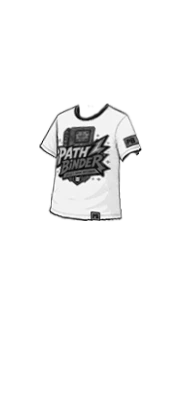
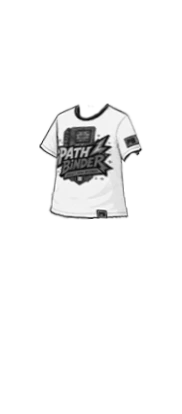
shirt

Changed region(s): [[0.2747, 0.2899, 0.7692, 0.5507], [0.4121, 0.2609, 0.467, 0.2899], [0.5495, 0.2609, 0.5769, 0.2899]]

diff --git a/index.html b/index.html
@@ -26698,6 +26698,14 @@ input::placeholder, textarea::placeholder { color: var(--muted) !important; }
         break;
       }
     }
+    // Hair styles that need EXTRA WIDE hat mask coverage — wide
+    // pigtails / buns / volume on the sides that would peek out past
+    // the hat without sideways dilation. Trade-off: a curved brim's
+    // lowest Y can propagate sideways and clip hair below the brim in
+    // side columns. These styles accept that for safer side coverage.
+    const HAIR_WIDE_HAT_MASK = new Set([3, 5, 8, 10, 11, 12, 13, 15, 17]);
+    const wideHatMask = state.hair && HAIR_WIDE_HAT_MASK.has(state.hair);
+
     if (hatLayerIdx >= 0) {
       // Hat mask construction — three combined passes:
       //   1. Mark hat opaque pixels.
@@ -26790,11 +26798,42 @@ input::placeholder, textarea::placeholder { color: var(--muted) !important; }
           }
         }
       }
+
+      // Pass 6 — (optional) sideways dilation for wide-coverage hair
+      // styles. For pigtails/buns/wide hair, the mask grows N pixels
+      // left and right at every Y where the mask exists.
+      if (wideHatMask) {
+        const SIDE_DILATE_PX = 12;
+        for (let iter = 0; iter < SIDE_DILATE_PX; iter++) {
+          tmp.set(hatBottomCol);
+          for (let y = 0; y < H; y++) {
+            for (let x = 0; x < W; x++) {
+              const i = y * W + x;
+              if (hatBottomCol[i]) continue;
+              if (!exterior[i]) continue;     // never grow into interior holes
+              if ((x > 0     && hatBottomCol[i - 1]) ||
+                  (x < W - 1 && hatBottomCol[i + 1])) {
+                tmp[i] = 1;
+              }
+            }
+          }
+          hatBottomCol.set(tmp);
+        }
+      }
+
+      // Pass 7 — explicitly unmask interior hole pixels. Any
+      // transparent pixel that's NOT exterior (not reachable from
+      // canvas edges) is an interior hole in the hat (e.g. hat 2's
+      // cutout). Force those pixels off-mask so hair shows through.
+      for (let i = 0; i < N; i++) {
+        if (!exterior[i] && hd[i * 4 + 3] <= HAT_ALPHA_MIN) {
+          hatBottomCol[i] = 0;
+        }
+      }
     }
 
     // Hair styles that should NOT get clipped by the hat mask — long
-    // or flowy hair that intentionally extends past where the hat
-    // sits and should remain visible alongside it.
+    // or flowy hair that intentionally extends past where the hat sits.
     const HAIR_IGNORE_HAT_MASK = new Set([6, 9]);
 
     ctx.clearRect(0, 0, W, H);

diff --git a/sw.js b/sw.js
@@ -1,5 +1,5 @@
 // PathBinder Service Worker
-const CACHE = 'pathbinder-v191';
+const CACHE = 'pathbinder-v193';
 
 const PRECACHE = [
   '/offline.html',